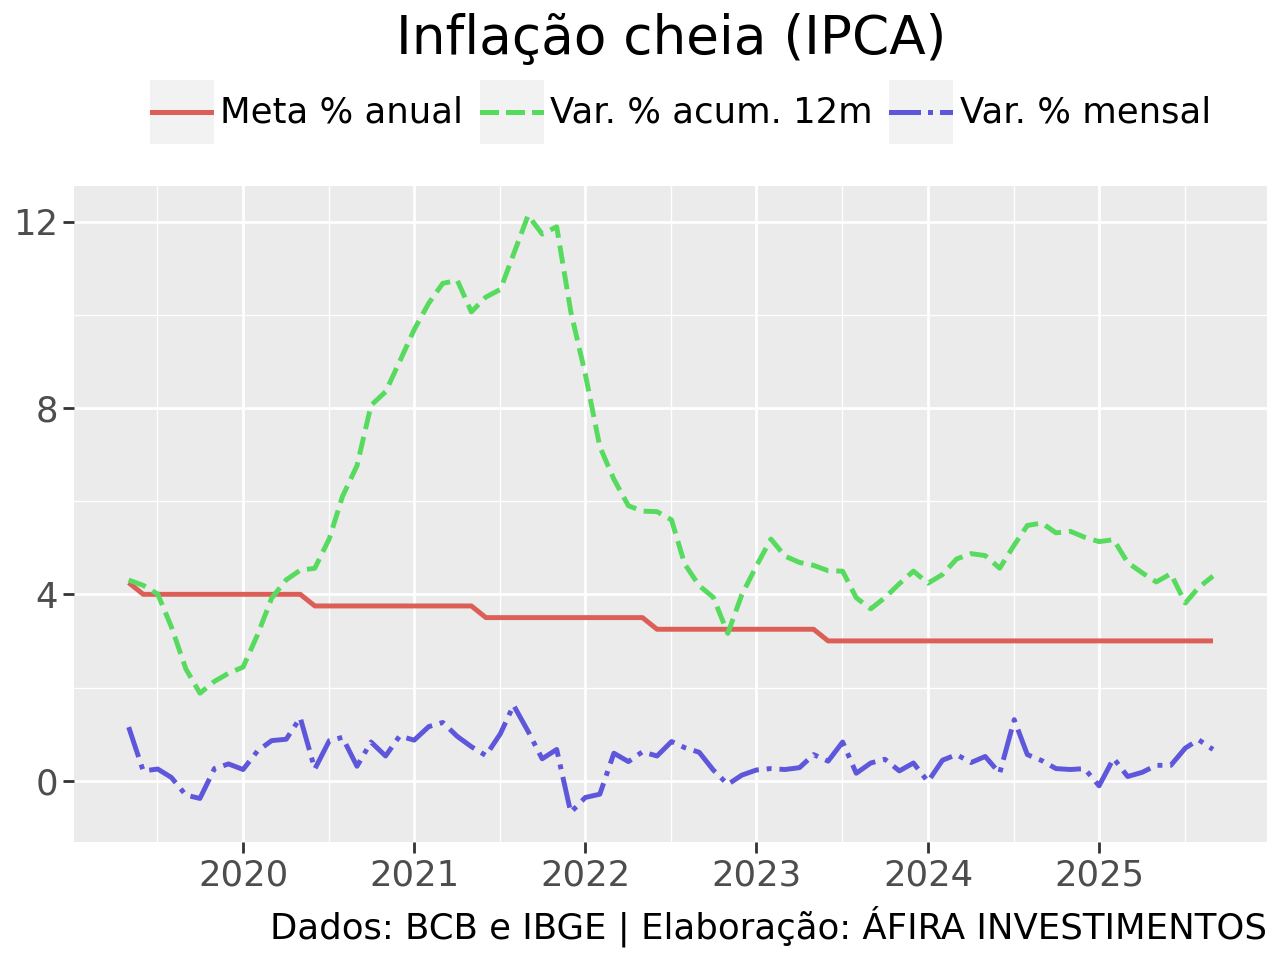
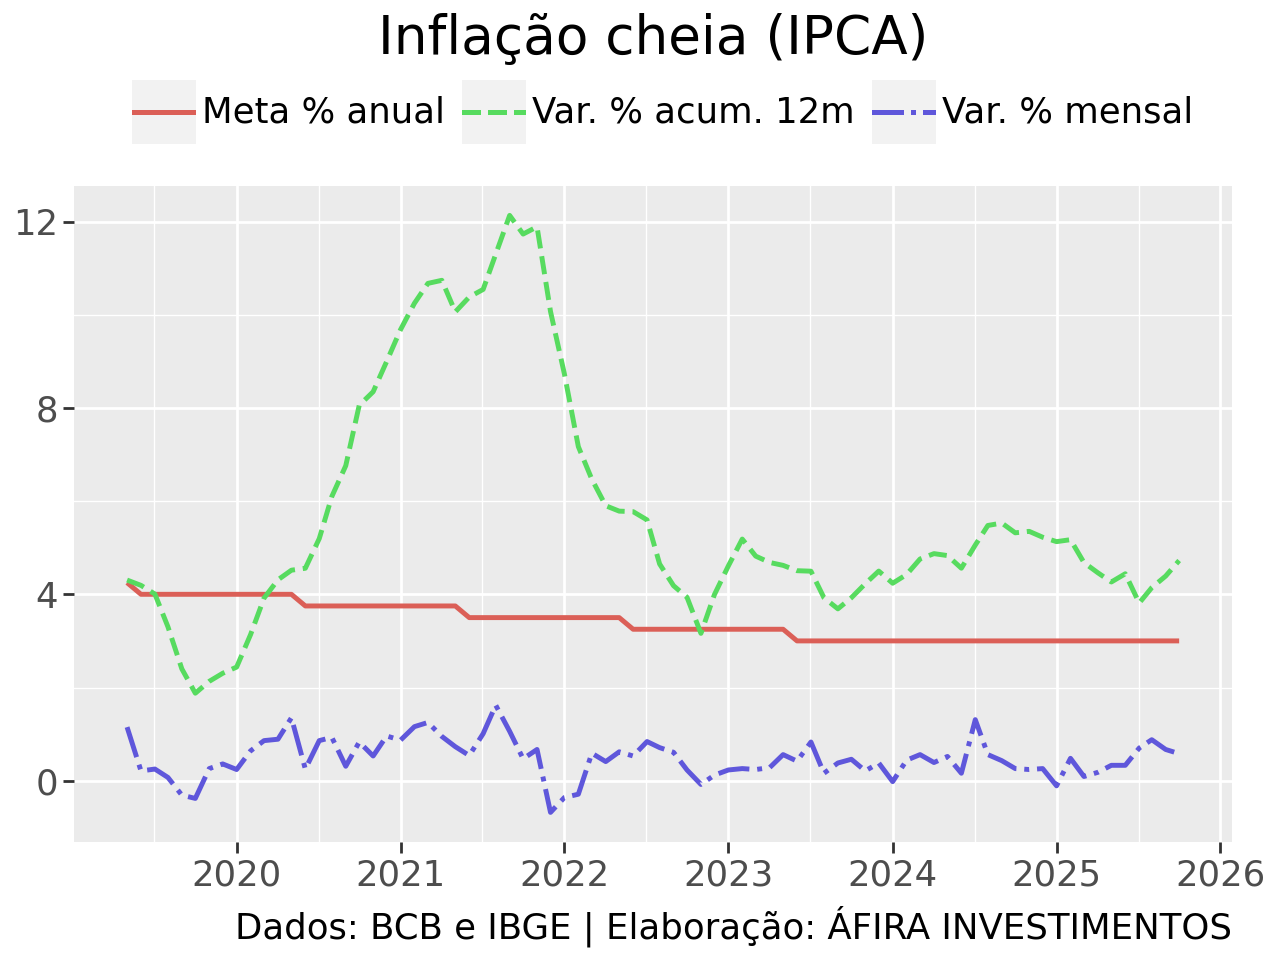
Atualização de relatório automatizada

diff --git a/projeto1/projeto1.html b/projeto1/projeto1.html
@@ -63,7 +63,7 @@ ul.task-list li input[type="checkbox"] {
     <div>
     <div class="quarto-title-meta-heading">Data de Publicação</div>
     <div class="quarto-title-meta-contents">
-      <p class="date">12 de junho de 2026</p>
+      <p class="date">13 de junho de 2026</p>
     </div>
   </div>
   